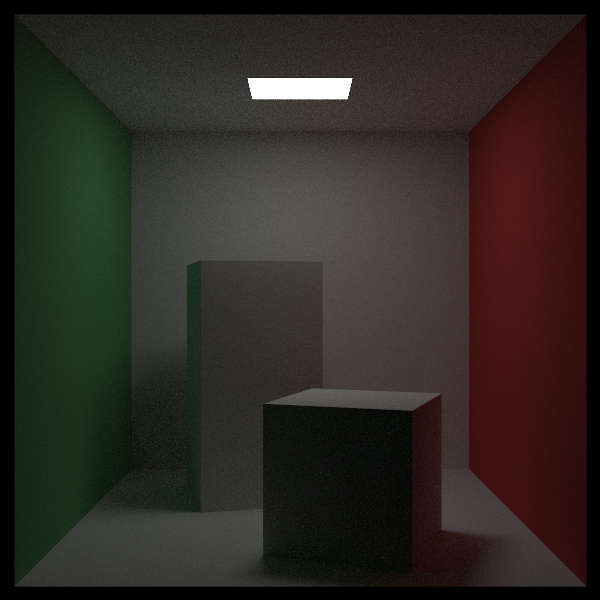
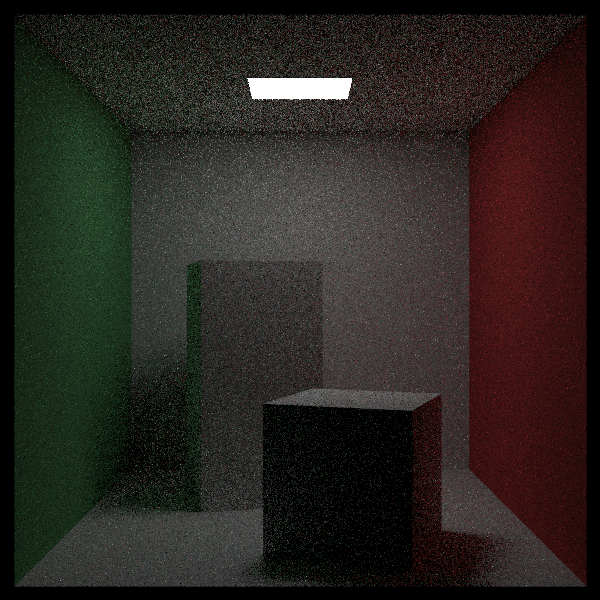
performance improvement in pdf

Changed region(s): [[0.03, 0.0, 0.99, 0.99], [0.66, 0.66, 0.84, 0.99]]

diff --git a/src/lib.rs b/src/lib.rs
@@ -1,14 +1,13 @@
 use pdf::{HittablePDF, MixedPDF};
 // Rust imports
 use rand::rngs::SmallRng;
-use rand::{Rng, SeedableRng};
+use rand::{SeedableRng};
 
 use indicatif::ProgressBar;
 
 use rayon::prelude::*;
 use std::error::Error;
-use std::f64::consts::PI;
-use std::ops::Index;
+
 use std::time::Instant;
 
 // Raytracer imports
@@ -30,17 +29,14 @@ mod pdf;
 use bhv::BHVNode;
 use camera::Camera;
 use color::Color;
-use config::{Config, JSONScene, Scene};
+use config::{Config, JSONScene};
 use elements::{Element, Hittable};
 use interval::Interval;
 use materials::{Emmits, Scatterable};
 use ray::Ray;
 
-use crate::elements::{JSONElement, Triangle};
-use crate::elements::{Quad, Sphere};
+use crate::elements::JSONElement;
 
-use crate::materials::{Lambertian, Material};
-use crate::vec3::Vec3;
 use crate::pdf::{PDFTrait, PDF, CosinePDF};
 
 // fn render
@@ -121,7 +117,7 @@ pub fn render_line(
     lights: &Vec<Element>,
     config: &Config,
 ) {
-    let mut rng = SmallRng::seed_from_u64(y as u64);
+    let mut rng: SmallRng = SmallRng::seed_from_u64(y as u64);
 
     for x in 0..config.img_width as usize {
         // start with black color
@@ -161,7 +157,7 @@ fn ray_color(
     config: &Config,
     ray: &Ray,
     depth: usize,
-    rng: &mut impl Rng,
+    rng: &mut SmallRng,
     follow: bool,
 ) -> Color {
     if depth == 0 {
@@ -196,16 +192,17 @@ fn ray_color(
             if let Some((Some(sscattered), Some(pdf_val), attenuation)) = hit.material.scatter(ray, &hit, rng) {
 
                 //  scattered rays (we assume every object has scattered rays, although in some materials (like metal) its actually a reflected or refracted (glass) ray)
-                // let mut color_from_scatter = Color::new(0.0, 0.0, 0.0);
 
                 let light_pdf: PDF = PDF::HittablePDF(HittablePDF::new(hit.point, lights[0]));
                 let cosine_pdf: PDF = PDF::CosinePDF(CosinePDF::new(hit.normal));
                 let mixed_pdf: PDF = PDF::MixedPDF(MixedPDF::new(hit.point, light_pdf, cosine_pdf));
 
-                let scattered = Ray::new(hit.point, mixed_pdf.generate());
-                //print!("scattered: {:?}", scattered);
+                // generate the direction for the new scattered ray based on the PDF
+                let scattered = Ray::new(hit.point, mixed_pdf.generate(rng));
+
+                // get the pdf value
                 let pdf_val = mixed_pdf.value(scattered.direction);
-                //println!("{}", pdf_val);
+
 
                 // there is a scattered ray, so lets get the color of that ray
                 // call the ray_color function again, now with the reflected ray but decrease the depth by 1 so that we dont run into an infinite loop
@@ -217,8 +214,10 @@ fn ray_color(
                     hit.material.scattering_pdf(ray, &hit, &scattered);
 
                 // return the color, by applying the albedo to the color of the scattered ray (albedo is here defined the amount of color not absorbed)
+                // also apply the sample importance weighting
                 let color_from_scatter = (attenuation * target_color * scattering_pdf)/ pdf_val;
 
+                // if we track this pixel, print out extra info
                 if follow {
                     log::info!("color_from_scatter: {:?}, target color: {:?}, attentuation: {:?}, scattering_pdf: {:?}, pdf_val: {:?}", color_from_scatter, target_color, attenuation, scattering_pdf, pdf_val);
                  }

diff --git a/src/pdf.rs b/src/pdf.rs
@@ -13,17 +13,17 @@ pub enum PDF {
 }
 
 pub trait PDFTrait {
-    fn generate(&self) -> Vec3;
+    fn generate(&self, rng: &mut SmallRng) -> Vec3;
     fn value(&self, direction: Vec3) -> f64;
 }
 
 impl PDFTrait for PDF {
-    fn generate(&self) -> Vec3 {
+    fn generate(&self, rng: &mut SmallRng) -> Vec3 {
         match self {
-            PDF::SpherePDF(s) => s.generate(),
-            PDF::CosinePDF(c) => c.generate(),
-            PDF::HittablePDF(h) => h.generate(),
-            PDF::MixedPDF(m) => m.generate(),
+            PDF::SpherePDF(s) => s.generate(rng),
+            PDF::CosinePDF(c) => c.generate(rng),
+            PDF::HittablePDF(h) => h.generate(rng),
+            PDF::MixedPDF(m) => m.generate(rng),
         }
     }
 
@@ -51,13 +51,12 @@ impl PDFTrait for MixedPDF {
     }
     
     //pick a random ray from one of the PDFs
-    fn generate(&self) -> Vec3 {
-        let mut rng = SmallRng::from_entropy();
+    fn generate(&self, rng: &mut SmallRng) -> Vec3 {
         let r = rng.gen_range(0.0..1.0);
         if r < 0.5 {
-            self.p1.generate()
+            self.p1.generate(rng)
         } else {
-            self.p2.generate()
+            self.p2.generate(rng)
         }
     }
 }
@@ -85,8 +84,8 @@ impl PDFTrait for HittablePDF {
         self.object.pdf_value(self.origin, direction)
     }
     
-    fn generate(&self) -> Vec3 {
-        self.object.random(self.origin)
+    fn generate(&self, rng: &mut SmallRng) -> Vec3 {
+        self.object.random(self.origin, rng)
     }
 }
 
@@ -111,9 +110,8 @@ impl PDFTrait for SpherePDF {
         1. / (4. * PI)
     }
     
-    fn generate(&self) -> Vec3 {
-        let mut rng = SmallRng::from_entropy();
-        Vec3::new_random_unit_vector(&mut rng)
+    fn generate(&self, rng: &mut SmallRng) -> Vec3 {
+        Vec3::new_random_unit_vector(rng)
     }
 }
 
@@ -137,8 +135,7 @@ impl PDFTrait for CosinePDF {
         0.0_f64.max(cosine_theta / PI)
     }
 
-    fn generate(&self) -> Vec3 {
-        let mut rng = SmallRng::from_entropy();
-        self.uvw.local_vec(Vec3::random_cosine_direction(&mut rng))
+    fn generate(&self, rng: &mut SmallRng) -> Vec3 {
+        self.uvw.local_vec(Vec3::random_cosine_direction(rng))
     }
 }

diff --git a/src/elements.rs b/src/elements.rs
@@ -24,7 +24,7 @@ pub trait Hittable {
     fn hit(&self, ray: &Ray, ray_t: &mut Interval) -> Option<HitRecord>;
     fn bounding_box(&self) -> Aabb;
     fn pdf_value(&self, origin: Vec3, direction: Vec3) -> f64;
-    fn random(&self, origin: Vec3) -> Vec3; // todo: find a way to pass the random generator
+    fn random(&self, origin: Vec3, rng: &mut SmallRng) -> Vec3; 
 }
 
 // enum for all the different elements, simplified JSON representation
@@ -92,11 +92,11 @@ impl Hittable for Element {
         }
     }
 
-    fn random(&self, origin: Vec3) -> Vec3 {
+    fn random(&self, origin: Vec3, rng: &mut SmallRng) -> Vec3 {
         match *self {
-            Element::Sphere(ref s) => s.random(origin),
-            Element::Quad(ref q) => q.random(origin),          
-            Element::Triangle(ref t) => t.random(origin),
+            Element::Sphere(ref s) => s.random(origin, rng),
+            Element::Quad(ref q) => q.random(origin, rng),          
+            Element::Triangle(ref t) => t.random(origin, rng),
         }
     }
 }
@@ -212,7 +212,7 @@ impl Hittable for Triangle {
         0.0
     }
 
-    fn random(&self, origin: Vec3) -> Vec3 {
+    fn random(&self, origin: Vec3, rng: &mut SmallRng) -> Vec3 {
         Vec3::new(1.0, 0.0, 0.0)
     }
 }
@@ -358,9 +358,7 @@ impl Hittable for Quad {
     // returns the direction from the origin to a random point on this quad
     // TODO: deal with transformations
 
-    fn random(&self, origin: Vec3) -> Vec3 {
-        
-        let mut rng = SmallRng::from_entropy();
+    fn random(&self, origin: Vec3, rng: &mut SmallRng) -> Vec3 {
 
         let r0 = rng.gen_range(0.0..1.0);
         let r1 = rng.gen_range(0.0..1.0);
@@ -627,7 +625,7 @@ impl Hittable for Sphere {
         0.0
     }
 
-    fn random(&self, origin: Vec3) -> Vec3 {
+    fn random(&self, origin: Vec3, rng: &mut SmallRng) -> Vec3 {
         Vec3::new(1.0, 0.0, 0.0)
     }
 }

diff --git a/src/materials.rs b/src/materials.rs
@@ -98,14 +98,6 @@ impl Scatterable for Lambertian {
     // create a scattered ray, randomized but with a lambartian distribution around the normal
     fn scatter(&self, _ray: &Ray, hit_record: &HitRecord, rng: &mut impl Rng) -> Option<(Option<Ray>, Option<f64>, Color)> {
         //lambertian distribution, assume the normal is normalized
-        //let mut new_direction = hit_record.normal + Vec3::new_random_unit_vector(rng);
-
-        // if the direction is almost zero, scatter to the normal
-        //if new_direction.near_zero() {
-        //    new_direction = hit_record.normal;
-       // }
-
-        //let scatter_drection = Vec3::new_random_on_hemisphere(&hit_record.normal, rng);
 
         let uvw: Onb = Onb::build_from_w(hit_record.normal);
         let scatter_direction: Vec3 = uvw.local_vec(Vec3::random_cosine_direction(rng));

diff --git a/src/bhv.rs b/src/bhv.rs
@@ -182,7 +182,7 @@ impl Hittable for BHVNode {
     }
     
     // need to implement these for the Hittable trait, but serve little function in the BHVNode
-    fn random(&self, _origin: Vec3) -> Vec3 {
+    fn random(&self, _origin: Vec3, rng: &mut SmallRng) -> Vec3 {
         Vec3::new(1.0, 0.0, 0.0)
     }
 }

diff --git a/README.md b/README.md
@@ -2,8 +2,9 @@
 Simple Raytracer for simple 3D scenes, made in Rust. Objective is to learn Rust, not make a very good raytracer.
 
 ## Ray tracing features
-- pixel by pixel raytracing with stochastic anti aliasing
-- various primitives (triangle, quad, spheres)
+- monte carlo based, pixel by pixel raytracing with stochastic anti aliasing
+- weigthed importance sampling
+- various primitives (triangle, quad, sphere)
 - various materials (Lambertian, Metal, Glass, ...)
 - Bounded Hierarchy Volumes (BHV) tree to accelerate intersection tracing
 - parallel multi-threaded rendering
@@ -19,5 +20,6 @@ Simple Raytracer for simple 3D scenes, made in Rust. Objective is to learn Rust,
 
 ## Credits / references
 - Raytracing in One Weekend (https://raytracing.github.io/books/RayTracingInOneWeekend.html)
+- PBR book (https://www.pbr-book.org)
 - Raytracer in Rust (https://github.com/dps/rust-raytracer)
 - Raytracer in Rust (https://bheisler.github.io/post/writing-raytracer-in-rust-part-1/)
